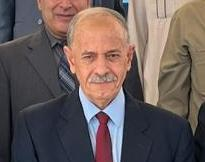
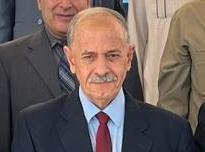
تحديث المشروع

diff --git a/index.html b/index.html
@@ -1180,7 +1180,7 @@
     <img src="imeges/ztarat/Maqaber-AlGafeer/11.JPG"  class="w-full " >
 
     <img  src="imeges/ztarat/Maqaber-AlGafeer/13.JPG"  class="w-full  " >
-    <img src="imeges/ztarat/Maqaber-AlGafeer/14.jpg"  class="w-full " >
+    <img src="imeges/ztarat/Maqaber-AlGafeer/14.JPG"  class="w-full " >
     <img src="imeges/ztarat/Maqaber-AlGafeer/15.JPG"  class="w-full " >
   </div>
 </div><br><br>
